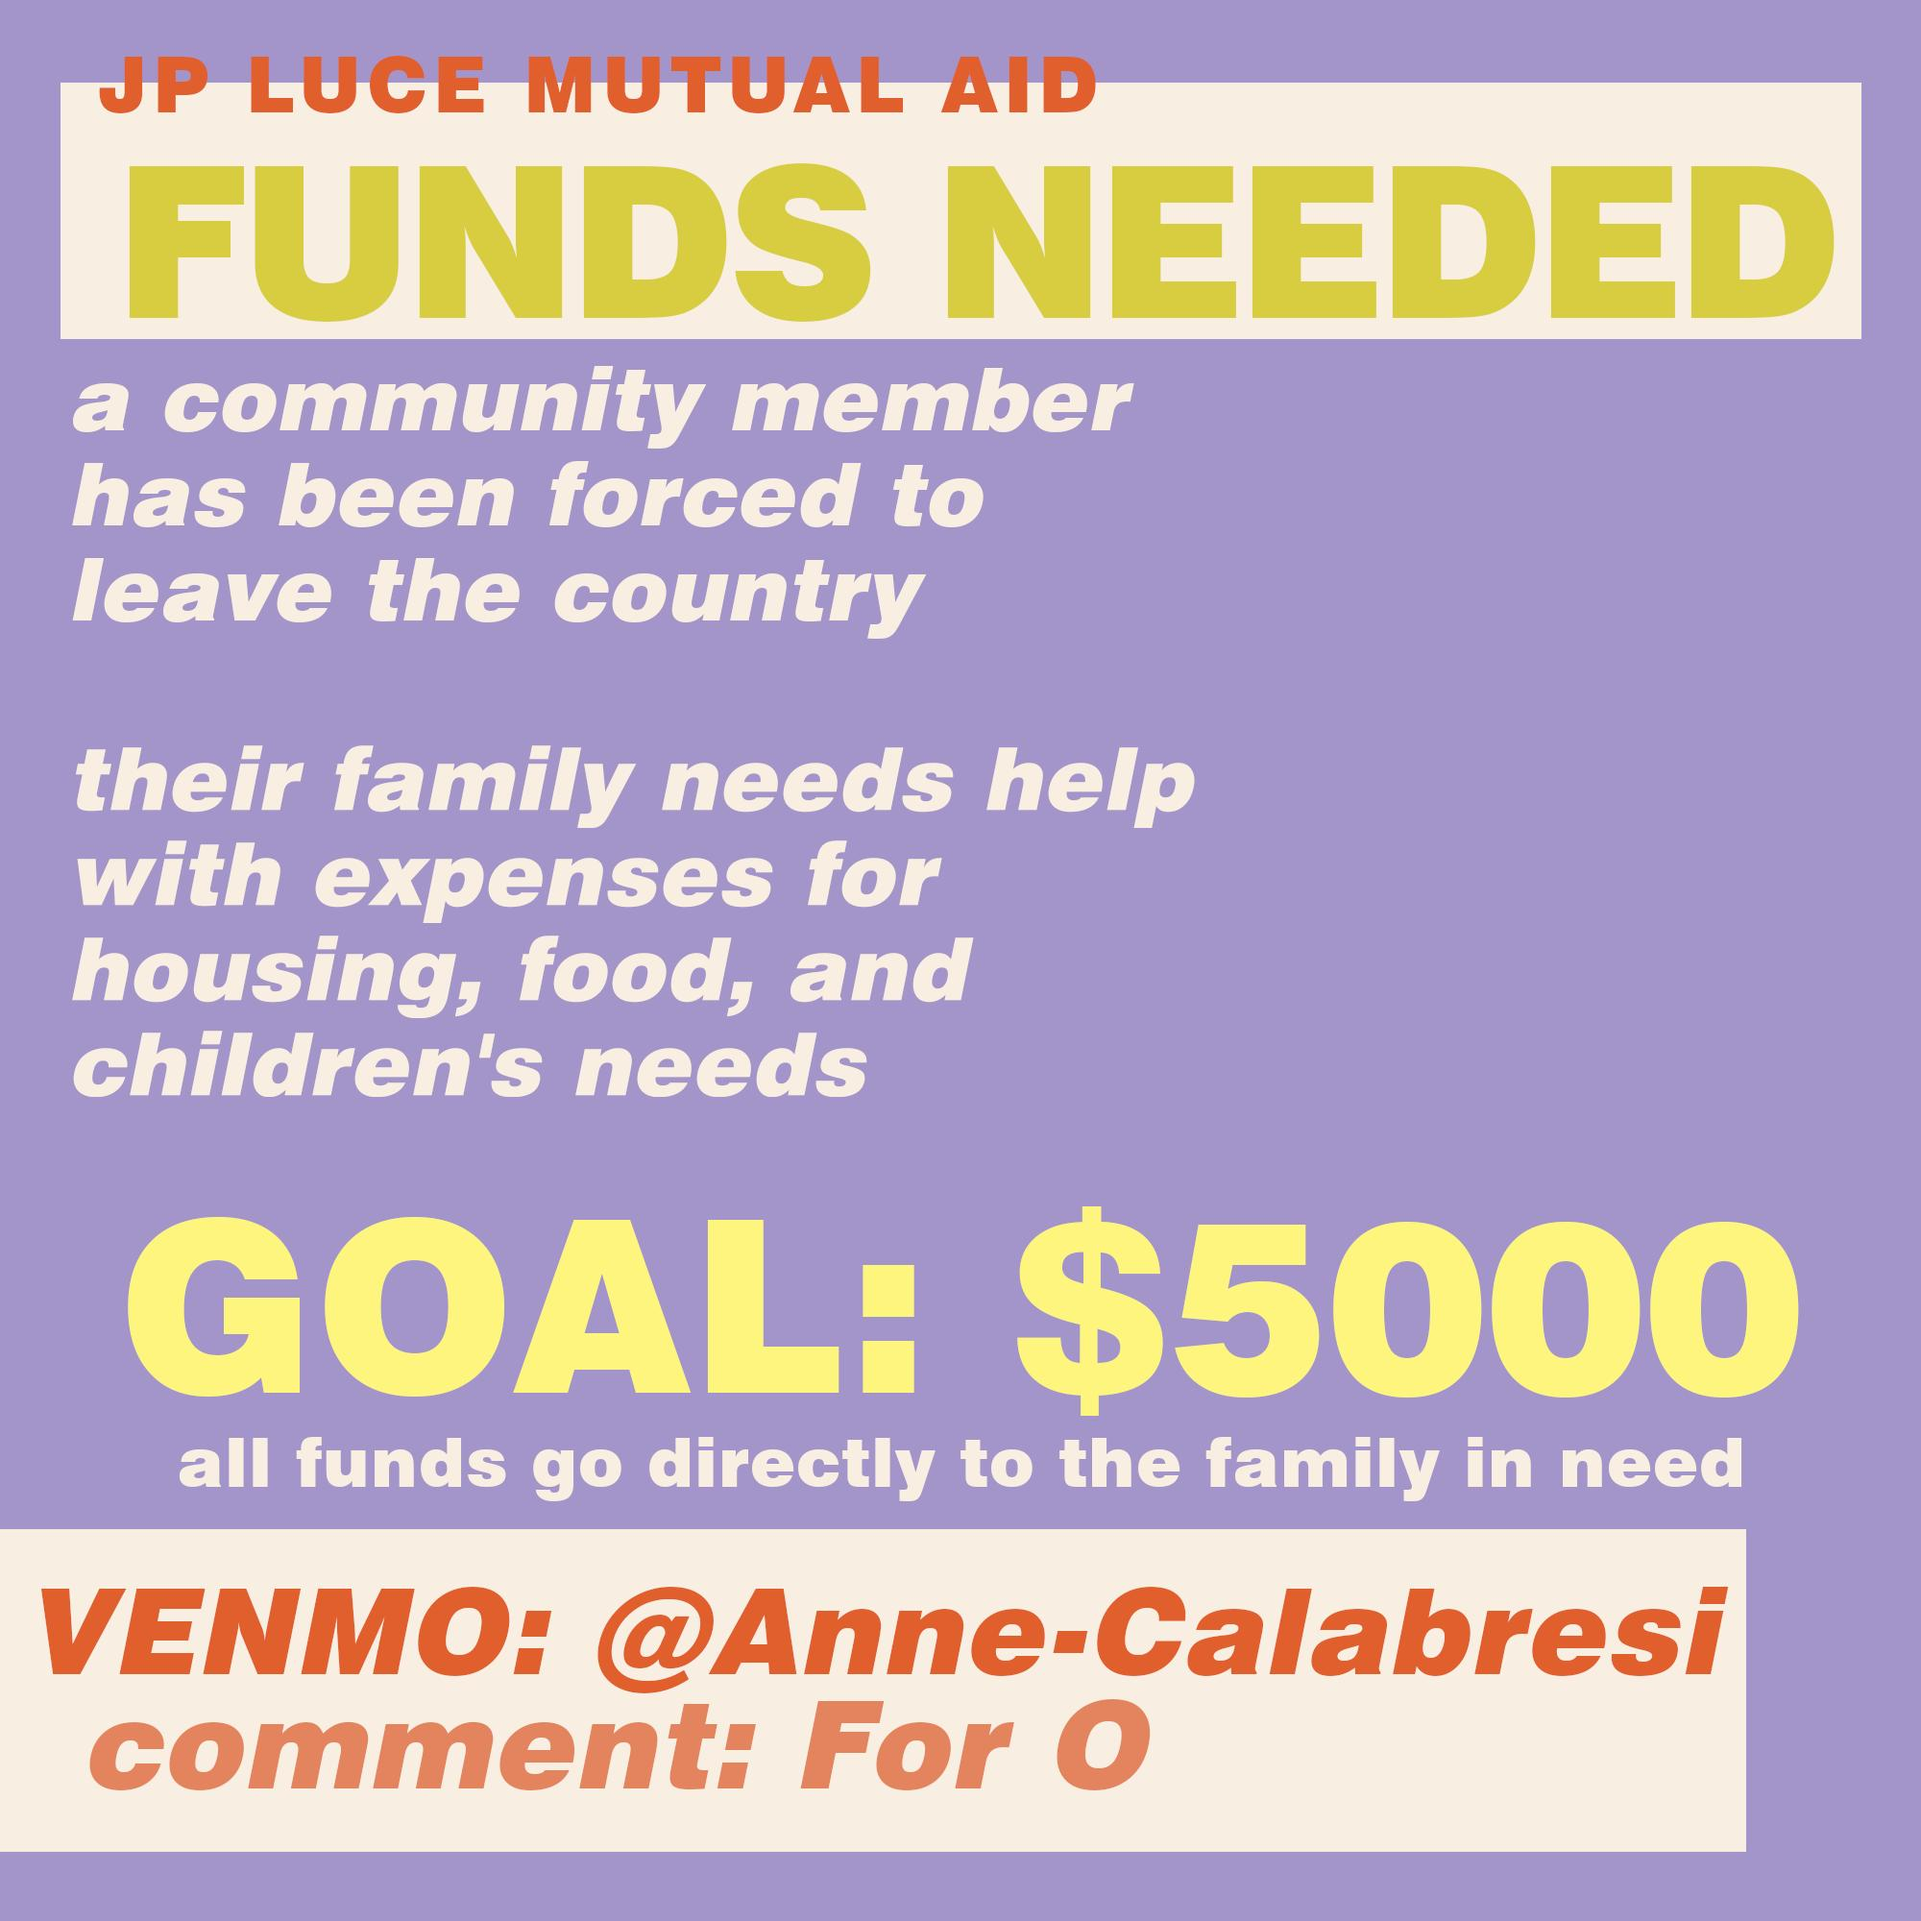
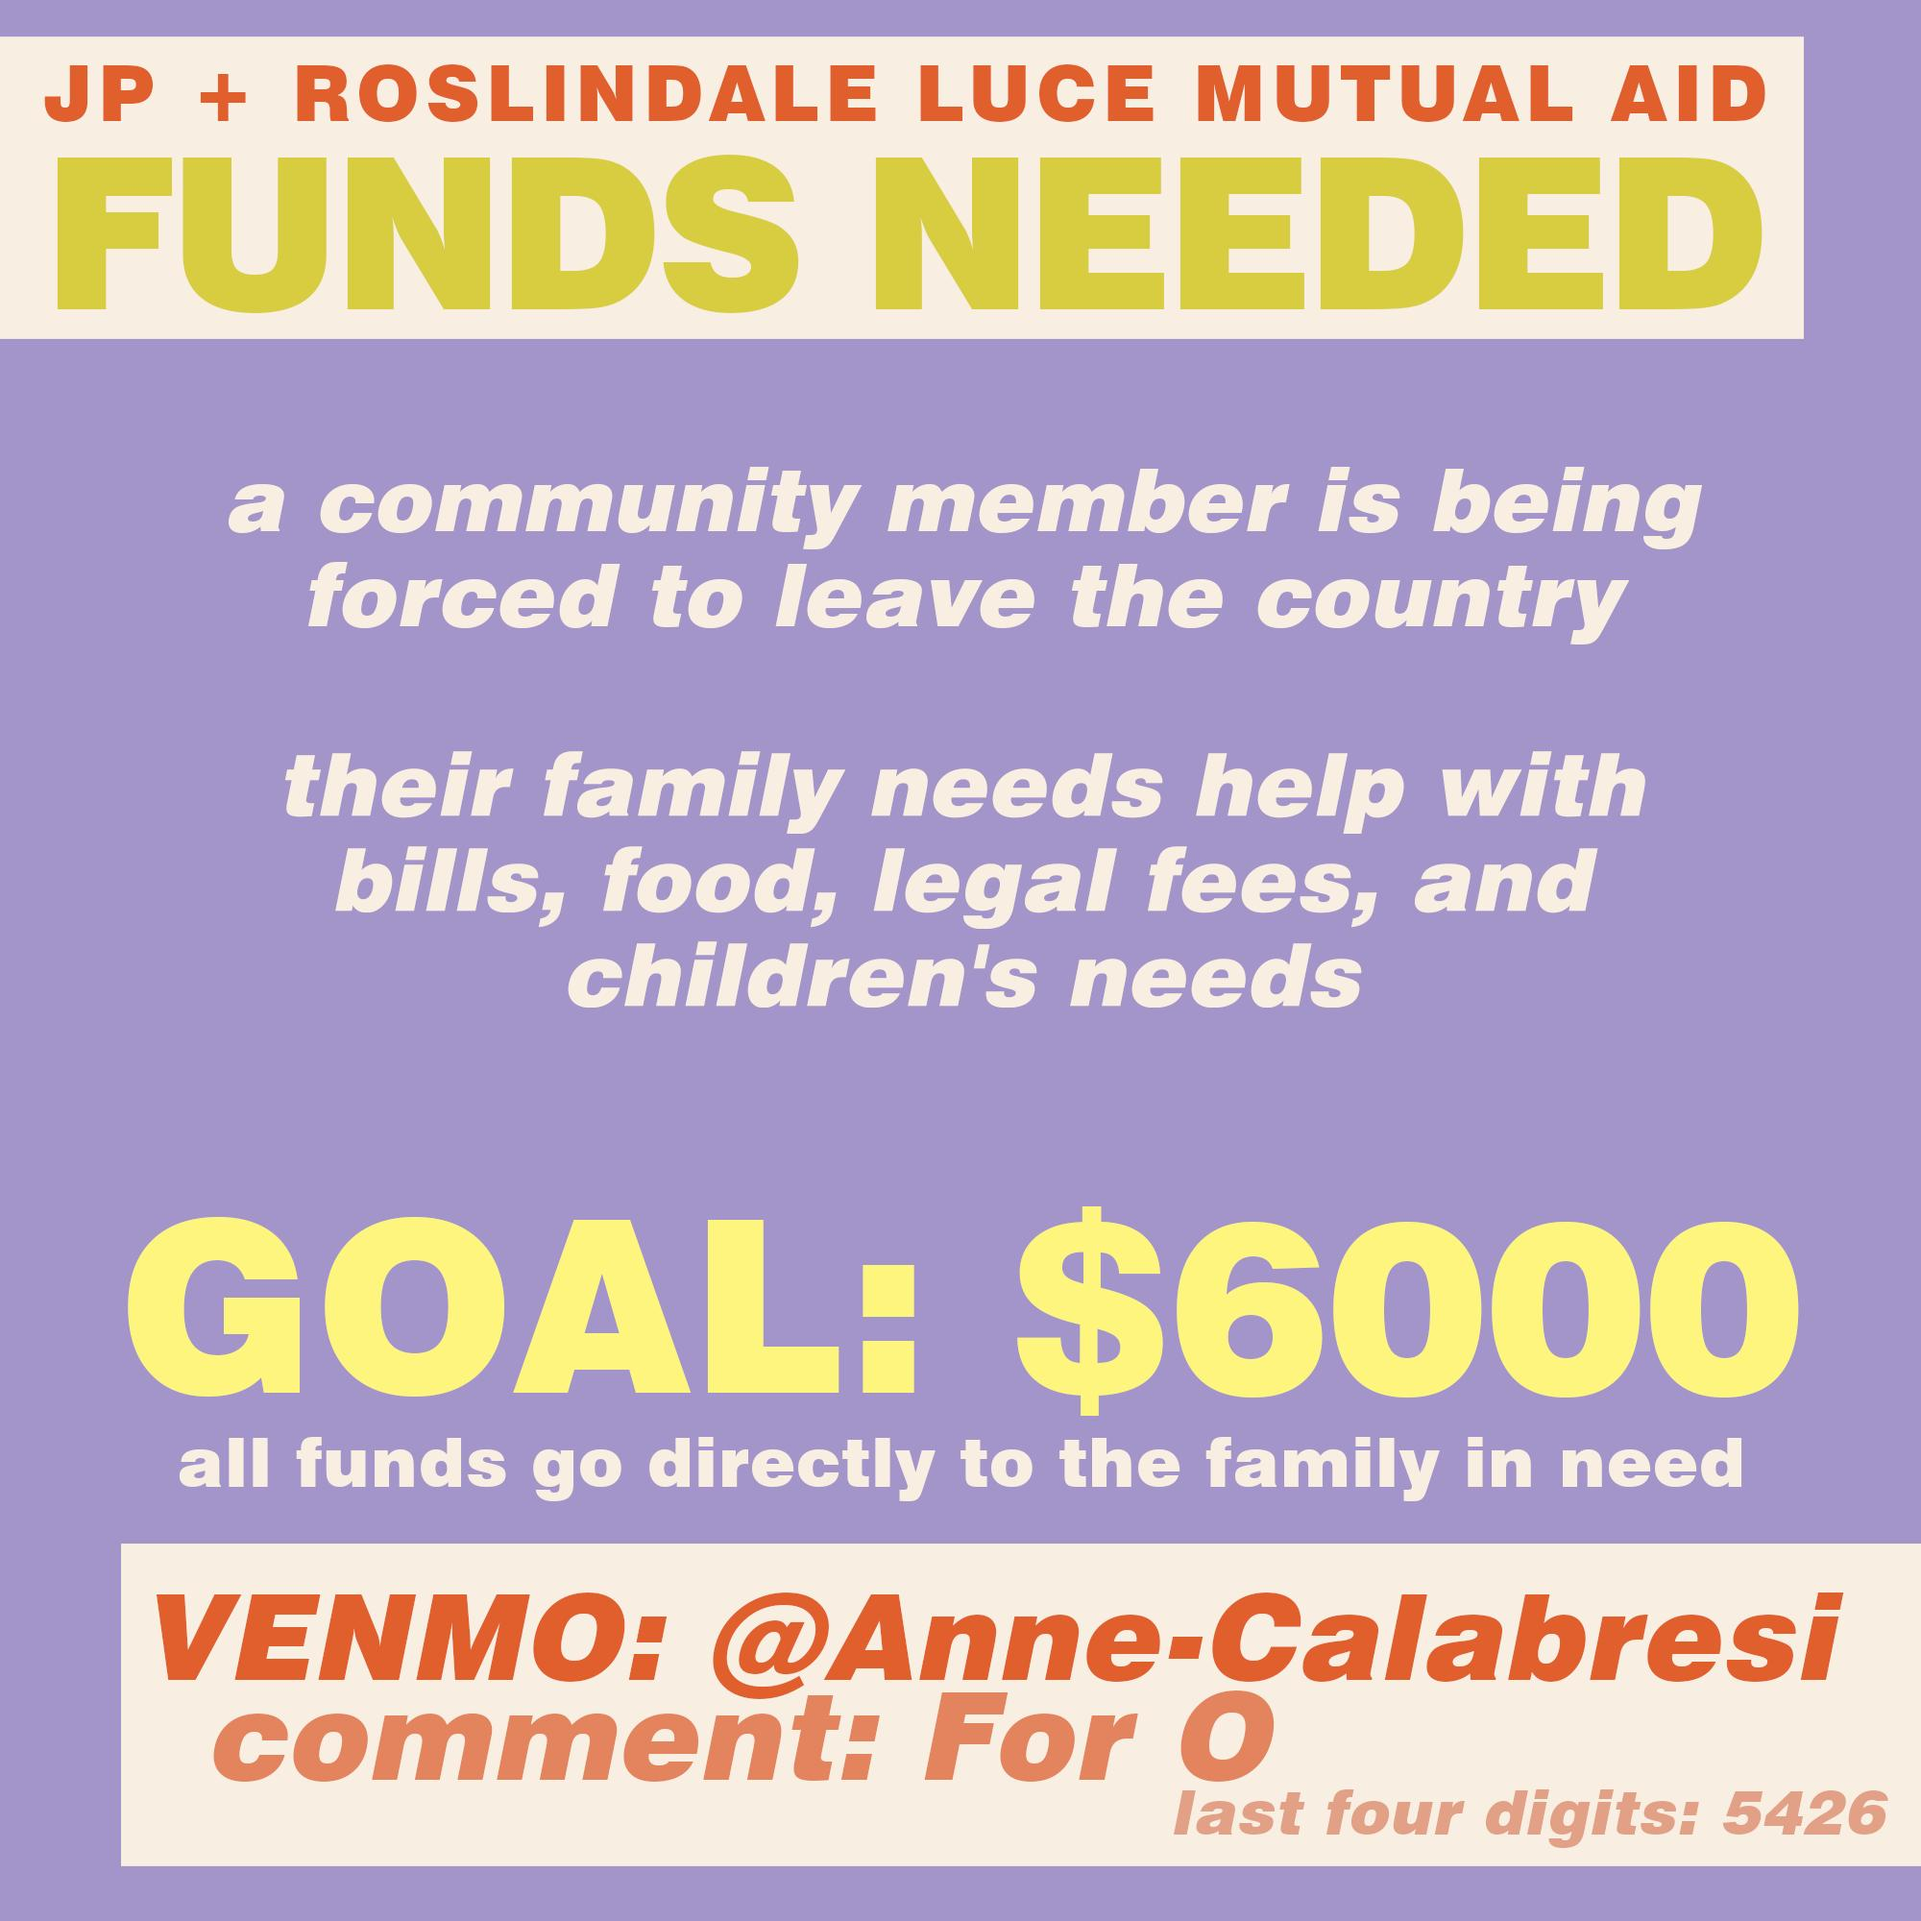
Update family support goal to $6000 and replace flyer image

diff --git a/family-support.html b/family-support.html
@@ -272,7 +272,7 @@
     </div>
 
     <!-- ONLY CHANGE THIS ONE NUMBER -->
-    <div class="progress" data-raised="0" data-goal="5000">
+    <div class="progress" data-raised="0" data-goal="6000">
       <div class="progress-labels">
         <span class="progress-raised"></span>
         <span class="progress-goal"></span>
